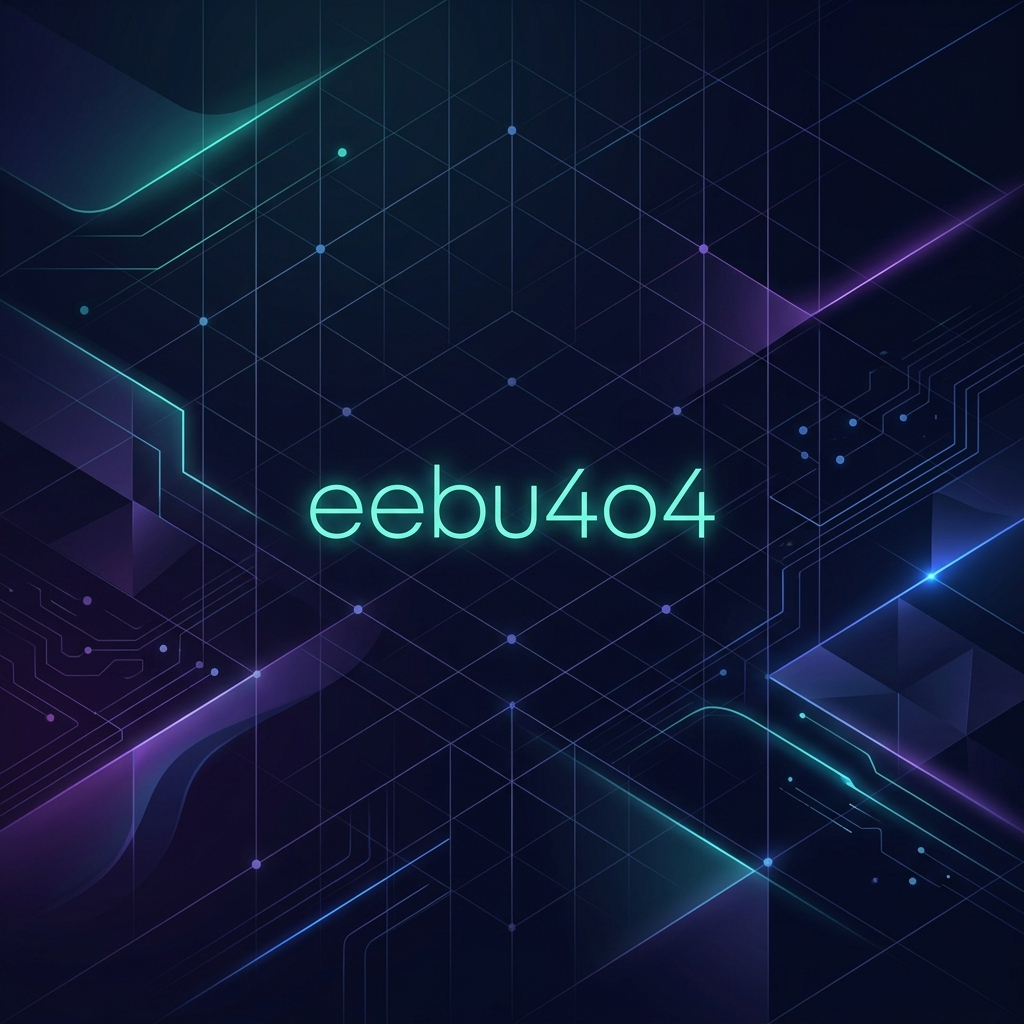
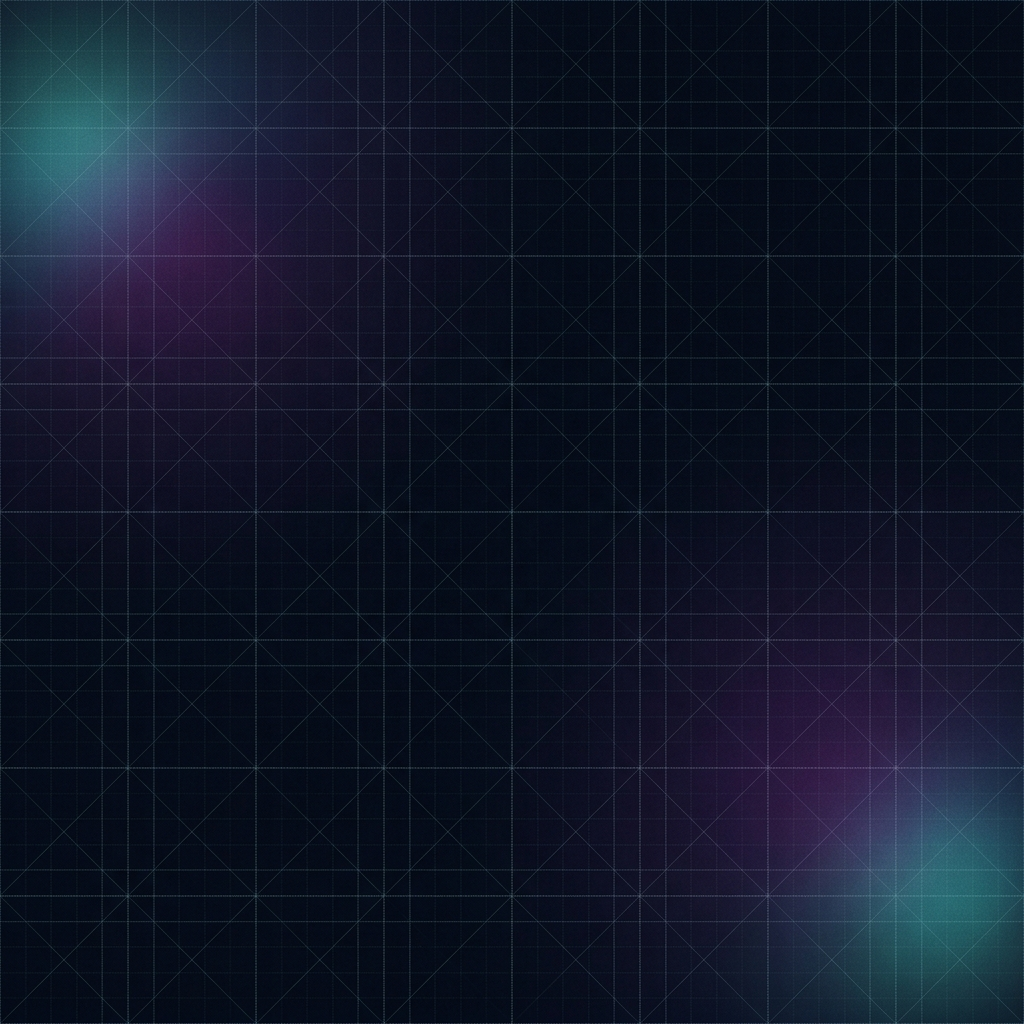
design: update background image with premium dark tech mesh grid

diff --git a/src/styles.css b/src/styles.css
@@ -87,7 +87,7 @@
     background-position: center;
     background-repeat: no-repeat;
     background-size: cover;
-    opacity: 0.05;
+    opacity: 0.15;
     pointer-events: none;
   }
   ::selection { background: var(--color-accent); color: white; }